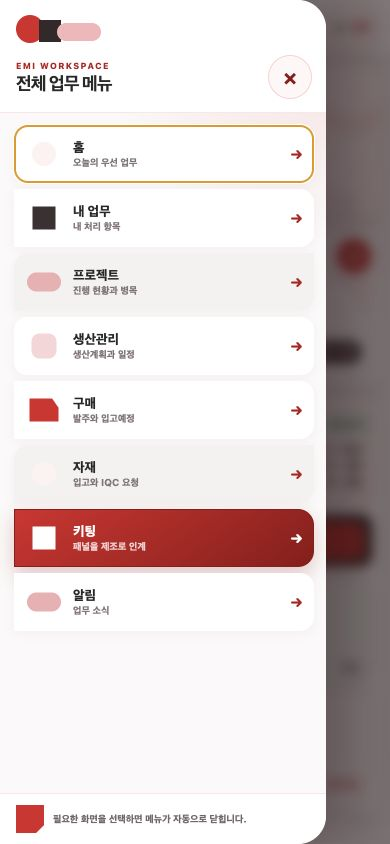
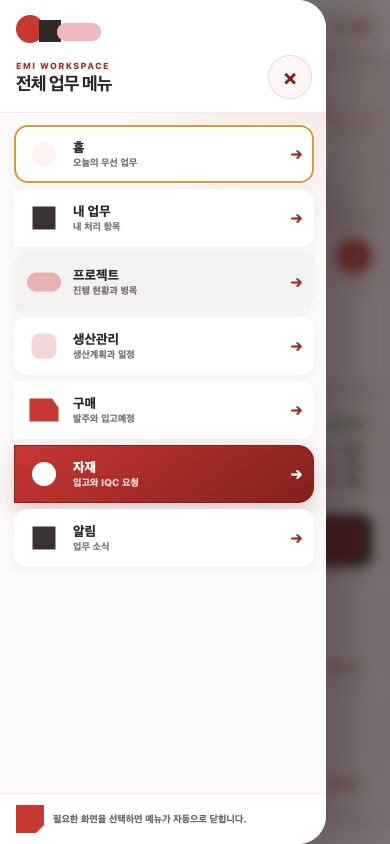
fix(010a): integrate kitting into materials

Changed region(s): [[0.0308, 0.5237, 0.9231, 0.7393], [0.8308, 0.4005, 0.9231, 0.4313], [0.7385, 0.7085, 0.7692, 0.7393]]

diff --git a/frontend/src/App.tsx b/frontend/src/App.tsx
@@ -1277,6 +1277,10 @@ function QmsAppShellContent({
   const canUseAdminPages = canManageUsers || canReadAdminHistory || isSystemAdministrator;
   const canAccessMaterialReceipts = canUpdateMaterialReceipt || isSystemAdministrator;
   const canAccessPanelKitting = permissions.includes('projects.read');
+  const canAccessMaterials = canAccessMaterialReceipts || canAccessPanelKitting;
+  const materialsHomeView: View = canAccessMaterialReceipts
+    ? { kind: 'materials-receipts' }
+    : { kind: 'materials-kitting' };
   const navigationItems: NavigationItem[] = [
     { label: '홈', view: { kind: 'home' }, active: view.kind === 'home' },
     { label: '내 업무', view: { kind: 'my-work' }, active: view.kind === 'my-work', badge: displayedShellBadges.requestedWorkCount },
@@ -1284,8 +1288,7 @@ function QmsAppShellContent({
     ...(canReadPending ? [{ label: 'Pending', view: { kind: 'pending' } as View, active: view.kind === 'pending' || view.kind === 'pending-detail' }] : []),
     { label: '생산관리', view: { kind: 'production-planning-dashboard' }, active: isProductionPlanningWorkspace(view) },
     { label: '구매', view: { kind: 'procurement-dashboard' }, active: isProcurementWorkspace(view) },
-    ...(canAccessMaterialReceipts ? [{ label: '자재', view: { kind: 'materials-receipts' } as View, active: view.kind === 'materials-receipts' }] : []),
-    ...(canAccessPanelKitting ? [{ label: '키팅', view: { kind: 'materials-kitting' } as View, active: view.kind === 'materials-kitting' }] : []),
+    ...(canAccessMaterials ? [{ label: '자재', view: materialsHomeView, active: view.kind === 'materials-receipts' || view.kind === 'materials-kitting' }] : []),
     ...(canInspectQuality ? [{ label: 'IQC', view: { kind: 'quality-iqc' } as View, active: view.kind === 'quality-iqc' }] : []),
     { label: '알림', view: { kind: 'notifications' }, active: view.kind === 'notifications', badge: displayedShellBadges.unreadNotificationCount },
     ...(canUseAdminPages ? [
@@ -1408,8 +1411,7 @@ function QmsAppShellContent({
             <h1>EMI 프로젝트 통합관리시스템</h1>
           </div>
           <div className="topbar-actions">
-            {canAccessMaterialReceipts ? <button type="button" onClick={() => setView({ kind: 'materials-receipts' })}>자재</button> : null}
-            {canAccessPanelKitting ? <button type="button" onClick={() => setView({ kind: 'materials-kitting' })}>키팅</button> : null}
+            {canAccessMaterials ? <button type="button" onClick={() => setView(materialsHomeView)}>자재</button> : null}
             {canUseAdminTestUserSwitch ? (
               <label className="test-user-select">
                 <span>검수 사용자 전환</span>
@@ -1691,6 +1693,7 @@ function QmsAppShellContent({
           canUpdate={canUpdateMaterialReceipt}
           onBack={() => setView({ kind: 'list' })}
           onOpenIqc={() => setView({ kind: 'quality-iqc' })}
+          onOpenKitting={() => setView({ kind: 'materials-kitting' })}
           onOpenPending={(pendingId) => setView({ kind: 'pending-detail', pendingId })}
         />
       ) : null}
@@ -1853,7 +1856,6 @@ const mobileNavigationHints: Record<string, string> = {
   '생산관리': '생산계획과 일정',
   '구매': '발주와 입고예정',
   '자재': '입고와 IQC 요청',
-  '키팅': '패널을 제조로 인계',
   'IQC': '수입검사 대기',
   '알림': '업무 소식',
   '관리자': '시스템 운영'

diff --git a/frontend/src/MaterialsWorkspace.tsx b/frontend/src/MaterialsWorkspace.tsx
@@ -37,12 +37,14 @@ export function MaterialReceivingPage({
   canUpdate,
   onBack,
   onOpenIqc,
+  onOpenKitting,
   onOpenPending
 }: {
   developmentUserKey: string;
   canUpdate: boolean;
   onBack: () => void;
   onOpenIqc: () => void;
+  onOpenKitting: () => void;
   onOpenPending: (pendingId: string) => void;
 }) {
   const layout = useAdaptiveLayout();
@@ -133,6 +135,7 @@ export function MaterialReceivingPage({
         </div>
         <div className="material-hero-actions">
           <button type="button" onClick={onBack}>프로젝트</button>
+          <button type="button" onClick={onOpenKitting}>패널 키팅</button>
           <button type="button" className="primary-button" onClick={onOpenIqc}>IQC 검사함</button>
         </div>
       </header>

diff --git a/frontend/e2e/full-stack/panel-kitting.full-stack.spec.ts b/frontend/e2e/full-stack/panel-kitting.full-stack.spec.ts
@@ -49,7 +49,10 @@ test('TASK-010A: material user completes selected panels from adaptive kitting w
   await capture(page, '03-panel-kitting-selected-mobile-390.jpg');
 
   await page.getByRole('button', { name: '메뉴 열기' }).click();
-  await expect(page.getByRole('dialog', { name: '전체 업무 메뉴' })).toBeVisible();
+  const menu = page.getByRole('dialog', { name: '전체 업무 메뉴' });
+  await expect(menu).toBeVisible();
+  await expect(menu.getByRole('button', { name: '자재' })).toHaveAttribute('aria-current', 'page');
+  await expect(menu.getByRole('button', { name: '키팅' })).toHaveCount(0);
   await capture(page, '04-panel-kitting-menu-mobile-390.jpg');
 });
 

diff --git a/frontend/e2e/mock-ui/panel-kitting-smoke.spec.ts b/frontend/e2e/mock-ui/panel-kitting-smoke.spec.ts
@@ -44,7 +44,8 @@ test('TASK-010A mock visual: adaptive panel kitting page and mobile drawer', asy
   await page.getByRole('button', { name: '메뉴 열기' }).click();
   const menu = page.getByRole('dialog', { name: '전체 업무 메뉴' });
   await expect(menu).toBeVisible();
-  await expect(menu.getByRole('button', { name: '키팅' })).toHaveAttribute('aria-current', 'page');
+  await expect(menu.getByRole('button', { name: '자재' })).toHaveAttribute('aria-current', 'page');
+  await expect(menu.getByRole('button', { name: '키팅' })).toHaveCount(0);
   await capture(page, '04-panel-kitting-menu-mobile-390.jpg');
 });
 

diff --git a/tasks/010a-implementation-report.md b/tasks/010a-implementation-report.md
@@ -49,7 +49,7 @@ Authoritative implementation contract는 Fable 2차 기획 [docs/17-panel-kittin
 ### Frontend·적응형 UX
 
 - 대형 자재 workspace에 키팅 상태를 누적하지 않고 `PanelKittingPage.tsx`, `panelKitting.ts`, 전용 API helper로 분리했다.
-- `/materials/kitting?project=...` route, 좌상단 숨김 global menu와 업무 deep link를 연결했다. 모바일 bottom navigation은 추가하지 않았다.
+- `/materials/kitting?project=...` route와 업무 deep link는 유지하되, Change 002에서 독립 전역 `키팅` 메뉴를 제거하고 전역 `자재` 메뉴와 입고 화면 내부 `패널 키팅` action으로 통합했다. 키팅 화면에서도 `자재`가 active이며 모바일 bottom navigation은 추가하지 않았다.
 - desktop은 프로젝트 rail·readiness summary·panel grid를, 모바일은 가로 project queue·핵심 readiness·2열 compact panel card·선택 action을 사용한다. PC 화면을 축소한 표 구조를 사용하지 않는다.
 - 각진 직사각형·둥근 직사각형·정사각형·soft shape, 원형 count/progress와 타원형 상태를 함께 사용했다. 390px에서 page horizontal overflow는 0이고 menu trigger는 45×45px다.
 - 선택 내용이 바뀌기 전 실패 재시도에는 같은 operationId를 유지하고, 선택이 바뀌면 새 operationId를 생성한다.
@@ -72,7 +72,7 @@ Authoritative implementation contract는 Fable 2차 기획 [docs/17-panel-kittin
 
 - DB: `database/migrations/0033_panel_kitting_handoff.sql`
 - Backend: `PanelKittingContracts.cs`, `PanelKittingEndpointExtensions.cs`, `PanelKittingStore.cs`, Materials readiness hook, Project purge/cancel lifecycle, Workflow link·stage 연결, DI
-- Frontend: `PanelKittingPage.tsx`, `panelKitting.ts`, API·route/menu·adaptive CSS
+- Frontend: `PanelKittingPage.tsx`, `panelKitting.ts`, API·route, 자재 통합 navigation과 adaptive CSS
 - Tests: migration/API integration, frontend unit, mock visual·isolated full-stack Playwright spec
 - 기획·검토: interview, Fable 1차 planning, Codex review, Change 001, Fable 2차 planning
 - 증빙: `tasks/010a-screenshots/*.jpg`, 이 보고서와 user validation checklist
@@ -86,7 +86,7 @@ Authoritative implementation contract는 Fable 2차 기획 [docs/17-panel-kittin
 - Frontend 전체 unit: `77/77 PASS`
 - Frontend lint: `PASS`(error 0, 기존 `main.tsx` Fast Refresh warning 1)
 - Frontend typecheck + production build: `PASS`(기존 대형 chunk warning만 존재)
-- Browser visual QA: desktop·390px 4장, 모바일 horizontal overflow 0, bottom navigation 0, 4종 card shape와 좌상단 menu active 상태 확인
+- Browser visual QA: desktop·390px 5장, desktop·모바일 horizontal overflow 0, bottom navigation 0, 독립 `키팅` 메뉴 0건, 자재 내부 진입점과 `자재` menu active 상태 확인
 
 미실행:
 
@@ -134,7 +134,7 @@ Claude `/usage` 정수 반올림 기준이다.
 
 1. 이 branch를 isolated DB와 external provider disabled 상태에서 실행한다.
 2. 자재 도착·IQC를 처리해 프로젝트의 모든 활성 구매품목을 입고 완료한다.
-3. 자재 담당은 좌상단 menu 또는 내 업무에서 `키팅`을 열고 준비 완료 프로젝트를 선택한다.
+3. 자재 담당은 좌상단 `자재` → 입고 화면의 `패널 키팅`, 또는 내 업무 deep link에서 준비 완료 프로젝트를 선택한다.
 4. panel 정보와 상태를 확인한 뒤 제조로 넘길 활성 panel을 선택하고 키팅 완료한다.
 5. 성공 요약의 완료 panel 수와 생성 제조 업무 수를 확인한다. 통신 오류 후 선택이 같으면 그대로 재시도한다.
 6. 마지막 panel 완료 뒤 키팅 업무 종료와 stage 완료 여부를 확인한다. panel 취소가 필요하면 열린 제조 업무가 Cancelled인지 함께 확인한다.
@@ -142,8 +142,8 @@ Claude `/usage` 정수 반올림 기준이다.
 
 ## User manual — 역할별 사용법
 
-- 자재 담당 Desktop: `키팅` → 왼쪽 project → readiness 확인 → panel 선택 → `N면 키팅 완료` → 결과 확인.
-- 자재 담당 Mobile: 좌상단 메뉴 → `키팅` → 위쪽 project card → panel card 선택 → 화면 안쪽 완료 action.
+- 자재 담당 Desktop: `자재` → `패널 키팅` → 왼쪽 project → readiness 확인 → panel 선택 → `N면 키팅 완료` → 결과 확인.
+- 자재 담당 Mobile: 좌상단 메뉴 → `자재` → `패널 키팅` → 위쪽 project card → panel card 선택 → 화면 안쪽 완료 action.
 - 제조 담당: 키팅 완료된 panel마다 생성된 `제조 작업` 내 업무를 확인한다. 제조 입력은 후속 TASK-011A 범위다.
 - 읽기 역할: 접근 가능한 프로젝트의 readiness·완료 상태만 조회하며 완료 action은 표시·허용되지 않는다.
 - 오류 복구: 입고 미완료·panel 정보 미완료·담당자 미지정 문구에 따라 선행정보를 보완한다. 이미 다른 요청이 완료한 경우 최신 목록을 다시 불러온다.

diff --git a/tasks/010a-change-002.md b/tasks/010a-change-002.md
@@ -1,0 +1,29 @@
+# TASK-010A Change 002 — 키팅을 자재 메뉴에 통합
+
+## 사용자 요청
+
+- 요청일: 2026-07-17
+- 요청: 독립 `키팅` 전역 메뉴를 제거하고 `자재`에 합친다. 수정 완료 뒤 다음 Task를 시작한다.
+- 승인 경계: 현재 experiment branch의 source·test·synthetic screenshot·local commit만 포함한다. 대표 repo·`main`·push·PR·merge·Persistent UAT·provider는 제외하며 main merge 승인 수는 `0/3`이다.
+
+## 조사 결과와 원인
+
+- 기존 010A interview는 “기존 자재 영역에서 패널 키팅 진입”을 요구하지만 구현은 `App.tsx` 전역 navigation과 topbar에 `키팅`을 별도 등록했다.
+- `/materials/kitting?project=&panel=` deep link와 전용 `PanelKittingPage`는 업무 분리·직접 진입을 위해 유지해야 하며, 메뉴 통합이 API·DB·키팅 transaction을 바꾸지는 않는다.
+
+## 승인된 변경 계약
+
+- 전역 navigation과 topbar에는 `자재`만 표시하고 별도 `키팅` 항목을 제거한다.
+- `자재`는 입고 화면과 키팅 화면 모두에서 active로 표시한다.
+- 자재 입고 화면 hero에 `패널 키팅` 내부 action을 제공한다.
+- 입고 권한 없이 키팅 조회만 가능한 역할은 `자재` 메뉴에서 키팅 화면으로 진입한다.
+- 키팅 내 업무·제조 업무의 직접 deep link와 `/materials/kitting` route는 유지한다.
+- 모바일 좌상단 drawer에서도 `자재` 하나만 active로 표시하고 bottom navigation은 만들지 않는다.
+
+## 검증·산출물
+
+- Frontend 핵심 unit `60/60`, 전체 unit `77/77`, lint error 0(기존 warning 1), typecheck·production build `PASS`
+- synthetic browser desktop 1440px에서 자재 내부 `패널 키팅` 진입점 1건, 독립 `키팅` 메뉴 0건, horizontal overflow 0 확인
+- synthetic browser 390px에서 키팅 화면의 `자재` active, 독립 `키팅` 메뉴 0건, horizontal overflow 0 확인
+- `04-panel-kitting-menu-mobile-390.jpg`를 통합 메뉴 상태로 교체하고 `05-materials-kitting-entry-desktop-1440.jpg`를 추가
+- implementation report·user validation checklist 갱신 후 local follow-up commit

diff --git a/tasks/010a-user-validation-checklist.md b/tasks/010a-user-validation-checklist.md
@@ -16,7 +16,7 @@
 - [x] Confirm·CloseArrivals readiness hook, panel 취소와 permanent purge lifecycle
 - [x] Backend 키팅·migration·purge targeted `3/3`, 전체 `375/375`
 - [x] Frontend 전체 unit `77/77`, lint·typecheck·production build
-- [x] desktop·390px adaptive 화면, 모바일 horizontal overflow 0, 좌상단 menu와 다양한 shape
+- [x] desktop·390px adaptive 화면, 모바일 horizontal overflow 0, 좌상단 `자재` 통합 menu와 다양한 shape
 - [ ] mock·isolated Full-Stack Playwright runtime — terminal 실행 정책 제한으로 미실행
 
 ## 사용자 직접 검수
@@ -24,7 +24,8 @@
 - [ ] [키팅 Desktop 1440](010a-screenshots/01-panel-kitting-desktop-1440.jpg): project rail·readiness·panel grid·완료 상태 확인
 - [ ] [키팅 Mobile 390](010a-screenshots/02-panel-kitting-mobile-390.jpg): PC 축소가 아닌 mobile project queue·2열 compact card 확인
 - [ ] [선택 action Mobile 390](010a-screenshots/03-panel-kitting-selected-mobile-390.jpg): 선택 수·완료 action의 크기와 정렬 확인
-- [ ] [좌상단 메뉴 Mobile 390](010a-screenshots/04-panel-kitting-menu-mobile-390.jpg): bottom navigation 없음과 `키팅` active 상태 확인
+- [ ] [자재 내부 키팅 진입 Desktop](010a-screenshots/05-materials-kitting-entry-desktop-1440.jpg): 독립 전역 메뉴 없이 자재 화면 안의 `패널 키팅` action 확인
+- [ ] [좌상단 메뉴 Mobile 390](010a-screenshots/04-panel-kitting-menu-mobile-390.jpg): bottom navigation·독립 `키팅` 메뉴 없음과 `자재` active 상태 확인
 - [ ] 이번 실험 결과를 유지·수정·폐기 중 무엇으로 처리할지 결정
 
 ## 게시·운영 Gate

diff --git a/docs/00-product-roadmap.md b/docs/00-product-roadmap.md
@@ -1536,6 +1536,7 @@ TASK-008A와 TASK-010A는 데이터·rollback·검증 경계가 다르므로 하
 - 선행조건: 자재 입고 확정
 - 주요 테스트: 키팅 완료, 제조 업무 생성, 중복 방지
 - 2026-07-17 실험 상태: `experiment/task-010a-panel-kitting`에서 Fable 1차 기획, Codex review, review 기반 Fable 2차 기획과 local 구현·자동 검증을 완료하고 사용자 검수 대기로 전환했다. `0033`은 backend test의 isolated DB에서만 검증했으며 대표 repo·`main`·Persistent UAT·provider에는 반영하지 않았다. canonical 실행 큐의 `Dependency Pending`과 다음 `TASK-007A` Gate는 변경하지 않는다.
+- 2026-07-17 실험 Change 002: 전역 `키팅` 메뉴를 제거하고 전역 `자재` 메뉴를 입고·키팅의 공통 진입점으로 유지한다. 입고 화면 내부 `패널 키팅` action과 내 업무 deep link로 키팅 화면에 진입하며, 키팅 화면에서도 전역 `자재`가 active다.
 
 ### TASK-011A: 제조 체크리스트 / 작업 시작·종료 / 제조 중단
 
